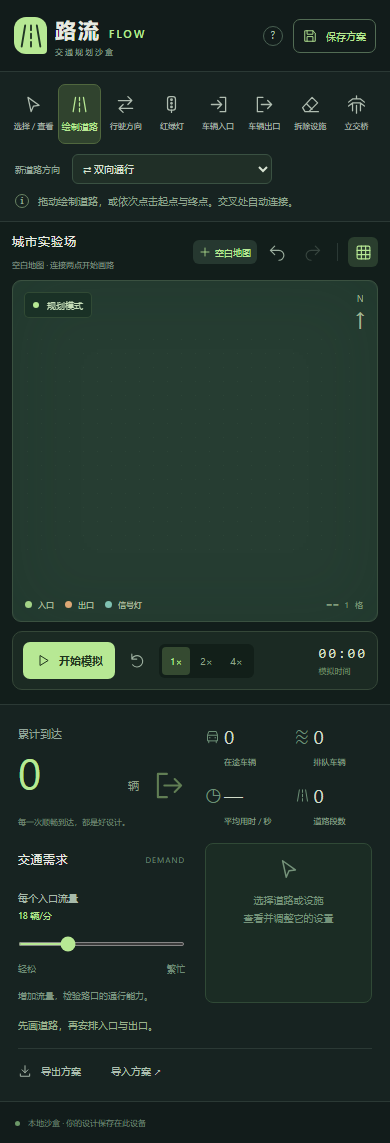
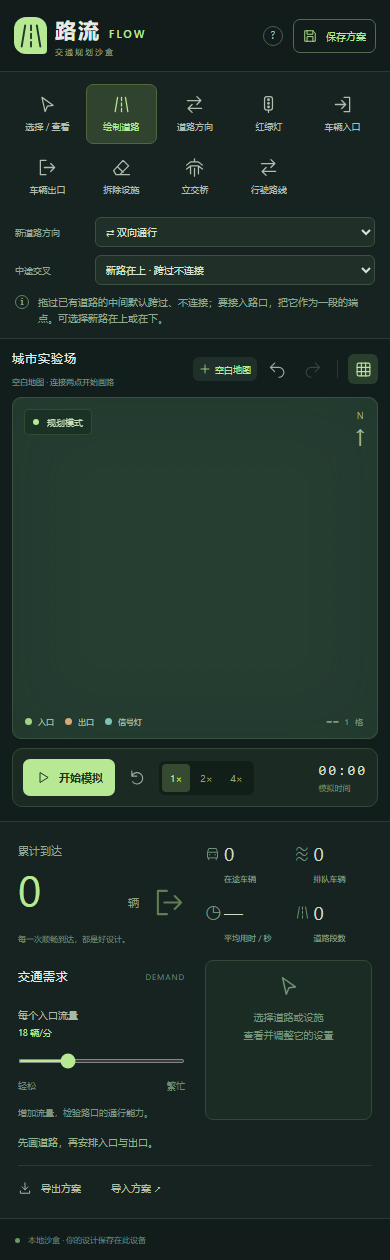
test: verify freehand crossings and exact driving instructions

diff --git a/scripts/browser-check.js b/scripts/browser-check.js
@@ -14,9 +14,13 @@ const {demo}=require('../src/core.js');
  try{
   await page.goto(process.env.FLOW_BASE_URL||'http://127.0.0.1:4267');
   assert.equal(await page.locator('#road-count').innerText(),'0');assert.equal(await page.locator('#scenery > *').count(),0);assert.equal(await page.locator('#empty-state').count(),0);check('I00 fresh session starts with an unobstructed blank grid');
+  await node('12,2').dragTo(node('12,14'));await node('2,8').dragTo(node('22,8'));assert.equal((await saved()).bridges[0].over,'ew');
+  await tool('select').click();await node('12,8').click();assert.equal(await page.locator('#route-preview circle,#bridges circle').count(),0);
+  await tool('road').click();await node('2,8').click();await node('12,8').click();assert.equal((await saved()).bridges.length,0);
+  await page.locator('#new-map').click();await page.locator('#draw-crossing').selectOption('under');await node('2,8').dragTo(node('22,8'));await node('12,2').dragTo(node('12,14'));assert.equal((await saved()).bridges[0].over,'ew');check('I25 drag crossing, explicit endpoint joins and user-selected lower road');
   await page.locator('#new-map').click();
   assert.equal(await page.locator('#road-count').innerText(),'0');await page.locator('#run').click();assert.equal(await page.locator('#map').getAttribute('data-running'),'false');check('I01 empty state and guarded start');
-  await node('2,8').dragTo(node('22,8'));assert.equal(await page.locator('#road-count').innerText(),'20');check('I02 pointer drag draws continuous road');
+  await page.locator('#draw-crossing').selectOption('connect');await node('2,8').dragTo(node('22,8'));assert.equal(await page.locator('#road-count').innerText(),'20');check('I02 pointer drag draws continuous road');
   await node('12,2').click();await node('12,14').click();assert.equal(await page.locator('#road-count').innerText(),'32');check('I03 two-click drawing joins roads');
   await tool('source').click();await node('2,8').click();await tool('exit').click();await node('22,8').click();await node('12,14').click();
   await tool('select').click();await node('2,8').click();assert.equal(await page.locator('#target-exit').count(),0);assert.ok((await page.locator('#inspector').innerText()).includes('随机选择'));assert.equal(await page.locator('#route-preview path').count(),2);check('I04 source shows all reachable routes with random exits');
@@ -39,6 +43,11 @@ const {demo}=require('../src/core.js');
   await tool('select').click();await node('12,8').click();await page.locator('#bridge-remove').click();assert.equal((await saved()).bridges.length,0);await page.locator('#undo').click();assert.equal((await saved()).bridges.length,1);check('I23 deck selection, persistence, removal and undo');
   await tool('signal').click();await node('12,8').click();assert.equal((await saved()).signals.length,0);await tool('source').click();await node('12,2').click();await page.locator('#run').click();await page.locator('[data-speed="4"]').click();
   await page.waitForFunction(()=>document.querySelector('#under-cars [data-layer="under"]')&&document.querySelector('#cars [data-layer="over"]'),{},{timeout:10000});await page.locator('#run').click();await page.screenshot({path:path.join(output,'overpass-desktop.png'),fullPage:true});check('I24 upper and lower cars render in separate layers');
+  await tool('select').click();await node('12,8').click();await page.locator('#bridge-remove').click();await tool('erase').click();await node('12,2').click();
+  await tool('route').click();await node('2,8').click();await node('12,8').click();await node('12,14').click();assert.equal((await saved()).routes.length,1);assert.equal((await saved()).routes[0].nodes.length,17);
+  await page.locator('#run').click();await page.waitForFunction(()=>document.querySelectorAll('#cars [data-destination]').length>=2);assert.deepEqual(await page.locator('#cars [data-destination]').evaluateAll(els=>[...new Set(els.map(e=>e.dataset.destination))]),['12,14']);await page.locator('#run').click();
+  await node('2,8').click();await node('22,8').click();assert.equal((await saved()).routes.length,2);await page.locator('#run').click();await page.waitForFunction(()=>new Set([...document.querySelectorAll('#cars [data-destination]')].map(c=>c.dataset.destination)).size===2,{},{timeout:6000});await page.locator('#run').click();await page.screenshot({path:path.join(output,'planned-routes-desktop.png'),fullPage:true});check('I26 explicit waypoint route followed, multiple routes split to different exits');
+  await tool('direction').click();await page.locator('[data-road="2,8|3,8"]').click();await page.locator('#road-direction').selectOption('reverse');assert.ok((await page.locator('#network-note').innerText()).includes('指定路线不通'));await page.locator('#run').click();assert.equal(await page.locator('#map').getAttribute('data-running'),'false');await page.reload();assert.equal((await saved()).routes.length,2);assert.ok((await page.locator('#network-note').innerText()).includes('不会自动改道'));check('I27 broken saved plan pauses cars without automatic rerouting');
   await page.locator('#new-map').click();await tool('road').click();await node('4,4').focus();await page.keyboard.press('Enter');for(let i=0;i<3;i++)await page.keyboard.press('ArrowRight');await page.keyboard.press('Enter');assert.equal(await page.locator('#road-count').innerText(),'3');await page.keyboard.press('Control+z');assert.equal(await page.locator('#road-count').innerText(),'0');await page.keyboard.press('Control+Shift+z');assert.equal(await page.locator('#road-count').innerText(),'3');check('I13 keyboard drawing and history shortcuts');
   await page.locator('#demo').click();await page.locator('#run').click();await page.waitForFunction(()=>document.getElementById('cars').children.length>=2);await page.locator('#run').click();assert.equal(await page.evaluate(()=>document.documentElement.scrollWidth>innerWidth),false);await page.screenshot({path:path.join(output,'desktop.png'),fullPage:true});check('I14 desktop example and layout 1440x1000');
   await page.setViewportSize({width:390,height:844});assert.equal(await page.locator('#new-map').isVisible(),true);await page.locator('#new-map').click();assert.equal(await tool('road').getAttribute('aria-pressed'),'true');await node('4,8').click();await node('20,8').click();assert.equal(await page.locator('#road-count').innerText(),'16');await tool('source').click();await node('4,8').click();await tool('exit').click();await node('20,8').click();assert.equal(await page.evaluate(()=>document.documentElement.scrollWidth>innerWidth),false);await page.screenshot({path:path.join(output,'mobile.png'),fullPage:true});check('I15 mobile blank-map button, pointer tools and layout 390x844');

diff --git a/doc/第一版本测试报告.md b/doc/第一版本测试报告.md
@@ -3,11 +3,11 @@
 日期：2026-10-21。Windows、Node 24.19.0；Chromium 151.0.7922.34。最终范围包括空白地图、随机出口、方向约束与立交跨线。
 
 ## 结果
-- `node --test`：32 通过，0 失败（含 7 项立交测试、10 项路网测试、12 项仿真测试、3 项结构检查）。
+- `node --test`：38 通过，0 失败（含 7 项立交测试、10 项路网测试、12 项仿真测试、6 项自由绘制/指定路线测试、3 项结构检查）。
 - `node scripts/build.js`：构建成功，dist 下 5 个运行文件。
 - `node --check src/app.js`：退出 0。
 - `git diff --check`：无空白错误。
-- `PLAYWRIGHT_MODULE=<本机已有 playwright@1.62.1 路径> node scripts/browser-check.js`：25 项浏览器检查通过，0 失败，页面错误 0。
+- `PLAYWRIGHT_MODULE=<本机已有 playwright@1.62.1 路径> node scripts/browser-check.js`：28 项浏览器检查通过，0 失败，页面错误 0。
 - 原始浏览器结果见 `evidence/browser-results.json`，可重跑脚本，无需使用用户正在编辑的页面。
 
 ## 自动化行为覆盖
@@ -27,10 +27,15 @@
 | I14–I17 | 1440×1000、390×844 无页面横向溢出；手机新建入口可见；指南 Esc；真实触摸点击建路及建桥 |
 | I18–I21 | 控制台错误 0；坏存档回退空图；手机标题不重叠；同一入口同时出现驶向两个出口的车辆 |
 | I22–I24 | 建桥后只显示同层可达路线；换桥面、保存刷新、拆桥及撤销；桥上与桥下车辆分别进入不同 SVG 图层 |
+| I25 | 实际拖动跨过已有道路自动分层，可选择从下方穿过；点击交叉点作为端点则接入；立交预览不含圆形高亮 |
+| I26 | 从入口经途经点到出口画指定路线，运行后车辆全部沿指定路线驶向该出口；补画第二条路线后两出口均出现车流 |
+| I27 | 把指定路线的首段改为逆行后停发，刷新仍保留指定路径，不自动退回其他可通道路 |
 
 浏览器测试使用独立新上下文，随机源注入交替序列以保证分流检查可复现；实际游戏使用 Math.random。用户测试页采用 `http://localhost:4267/`，与原 `http://127.0.0.1:4267/` 页面分离存档，后续不再刷新原游戏页。
 
 ## 视觉证据与限制
 已查看 `evidence/overpass-desktop.png`、`evidence/overpass-mobile.png`：桥面、阴影、上下层车流和工具均可见，手机无标题重叠。纯空白图见 `evidence/blank-desktop.png`、`evidence/blank-mobile.png`。
 
-这是 SVG 伪 3D 教学沙盒；桥仅放在完整十字点，桥上桥下不能直接转弯。交通物理与信号时序为简化模型，未进行真机安卓安装或远端发布。
+最终桥面为平直的上下遮挡道路，已取消过亮护栏和圆形高亮。指定路线截图见 `evidence/planned-routes-desktop.png`。自由绘制新增用例在旧实现上先复现 5 项失败，最终全部通过。
+
+这是 SVG 伪 3D 教学沙盒；桥上桥下不能直接转弯。每条指定路线按节点顺序执行；未设置指定路线的入口仍随机选择可达出口。交通物理与信号时序为简化模型，未进行真机安卓安装或远端发布。

diff --git a/doc/阶段性总结.md b/doc/阶段性总结.md
@@ -2,9 +2,9 @@
 
 2026-10-21，版本 0.1.0，本地交付。
 
-已交付：纯空白起步、道路绘制、单向/双向方向、红绿灯、多入口出口、逐车随机可达出口、排队仿真、到达与耗时统计、撤销重做、自动保存及 JSON 迁移、伪 3D 立交桥及双层独立通行。
+已交付：纯空白起步、自由道路绘制（中途跨线/端点接入、指定上下层）、单向/双向方向、逐段指定车辆路线、红绿灯、多入口出口、逐车随机出口、排队仿真、到达与耗时统计、撤销重做、自动保存及 JSON 迁移、上下遮挡的双层独立通行。
 
-验证：32 项 Node 测试、25 项真实 Chromium 检查全部通过。静态构建 5 文件，支持直接打开 index.html 或本机服务，依赖仅用于开发时浏览器验收。
+验证：38 项 Node 测试、28 项真实 Chromium 检查全部通过。静态构建 5 文件，支持直接打开 index.html 或本机服务，依赖仅用于开发时浏览器验收。已指定路线的车辆不擅自改道，线路失效会停发。
 
 本机主页面为 http://127.0.0.1:4267/ ，独立测试页为 http://localhost:4267/ 。测试页与原页面的存档隔离，用户当前路网不用于测试操作。
 

diff --git a/README.md b/README.md
@@ -23,7 +23,7 @@ node scripts/serve.js
 8. 画路时，中途跨过已有道路默认不连接；可选新路在上、新路在下或连接路口。要接入交叉点，分段绘制，把交叉点作为一段的端点。
 9. 行驶路线工具（9）：先点击入口，再按顺序逐段点击道路，最后点击出口。车会严格沿这条路线前进，不会自己找捷径或掉头。有多条指定路线时随机分流；路线失效则停发，在入口设置中可删除路线。
 
-编辑会暂停并重置车辆和统计，保留路网。Ctrl+Z 撤销，Ctrl+Shift+Z 重做；1–7 切换工具。地图内方向键移动，Enter/空格操作。空白处空格开始/暂停，Escape 取消连线。
+编辑会暂停并重置车辆和统计，保留路网。Ctrl+Z 撤销，Ctrl+Shift+Z 重做；1–9 切换工具。地图内方向键移动，Enter/空格操作。空白处空格开始/暂停，Escape 取消连线。
 
 设计自动保存到当前浏览器/设备。JSON 导出可用于备份和迁移，导入会验证数据。隐私模式或存储受限时请使用导出。
 

diff --git a/doc/实施计划.md b/doc/实施计划.md
@@ -39,7 +39,7 @@
 - **Definition of Done**：`node --test` 包括分层寻路、单向约束、双层同时通行、存档兼容和删路清理；`node scripts/browser-check.js` 验证建桥、换层、拆除、撤销及桌面/手机图层。
 - **Files**：src/core.js、src/simulation.js、src/app.js、index.html、styles.css、tests/bridges.test.js、scripts/browser-check.js、doc/第一版本测试报告.md。
 
-## P8 自由跨线与严格指定路线 `[PENDING]`
+## P8 自由跨线与严格指定路线 `[COMPLETE]`
 - **Objective**：拖线中途自动跨过、端点连接，可选上下层；逐段指定行驶路线，车辆不擅自改变路径；无立交白圈。
 - **Definition of Done**：`node --test` 验证跨线与连接、完整路线约束、坏路线停发、存档兼容；真实浏览器拖动跨线、连接、画多条路线、运行和截图通过。
 - **Files**：src/core.js、src/simulation.js、src/app.js、index.html、styles.css、tests/planning.test.js、scripts/browser-check.js、README.md。
